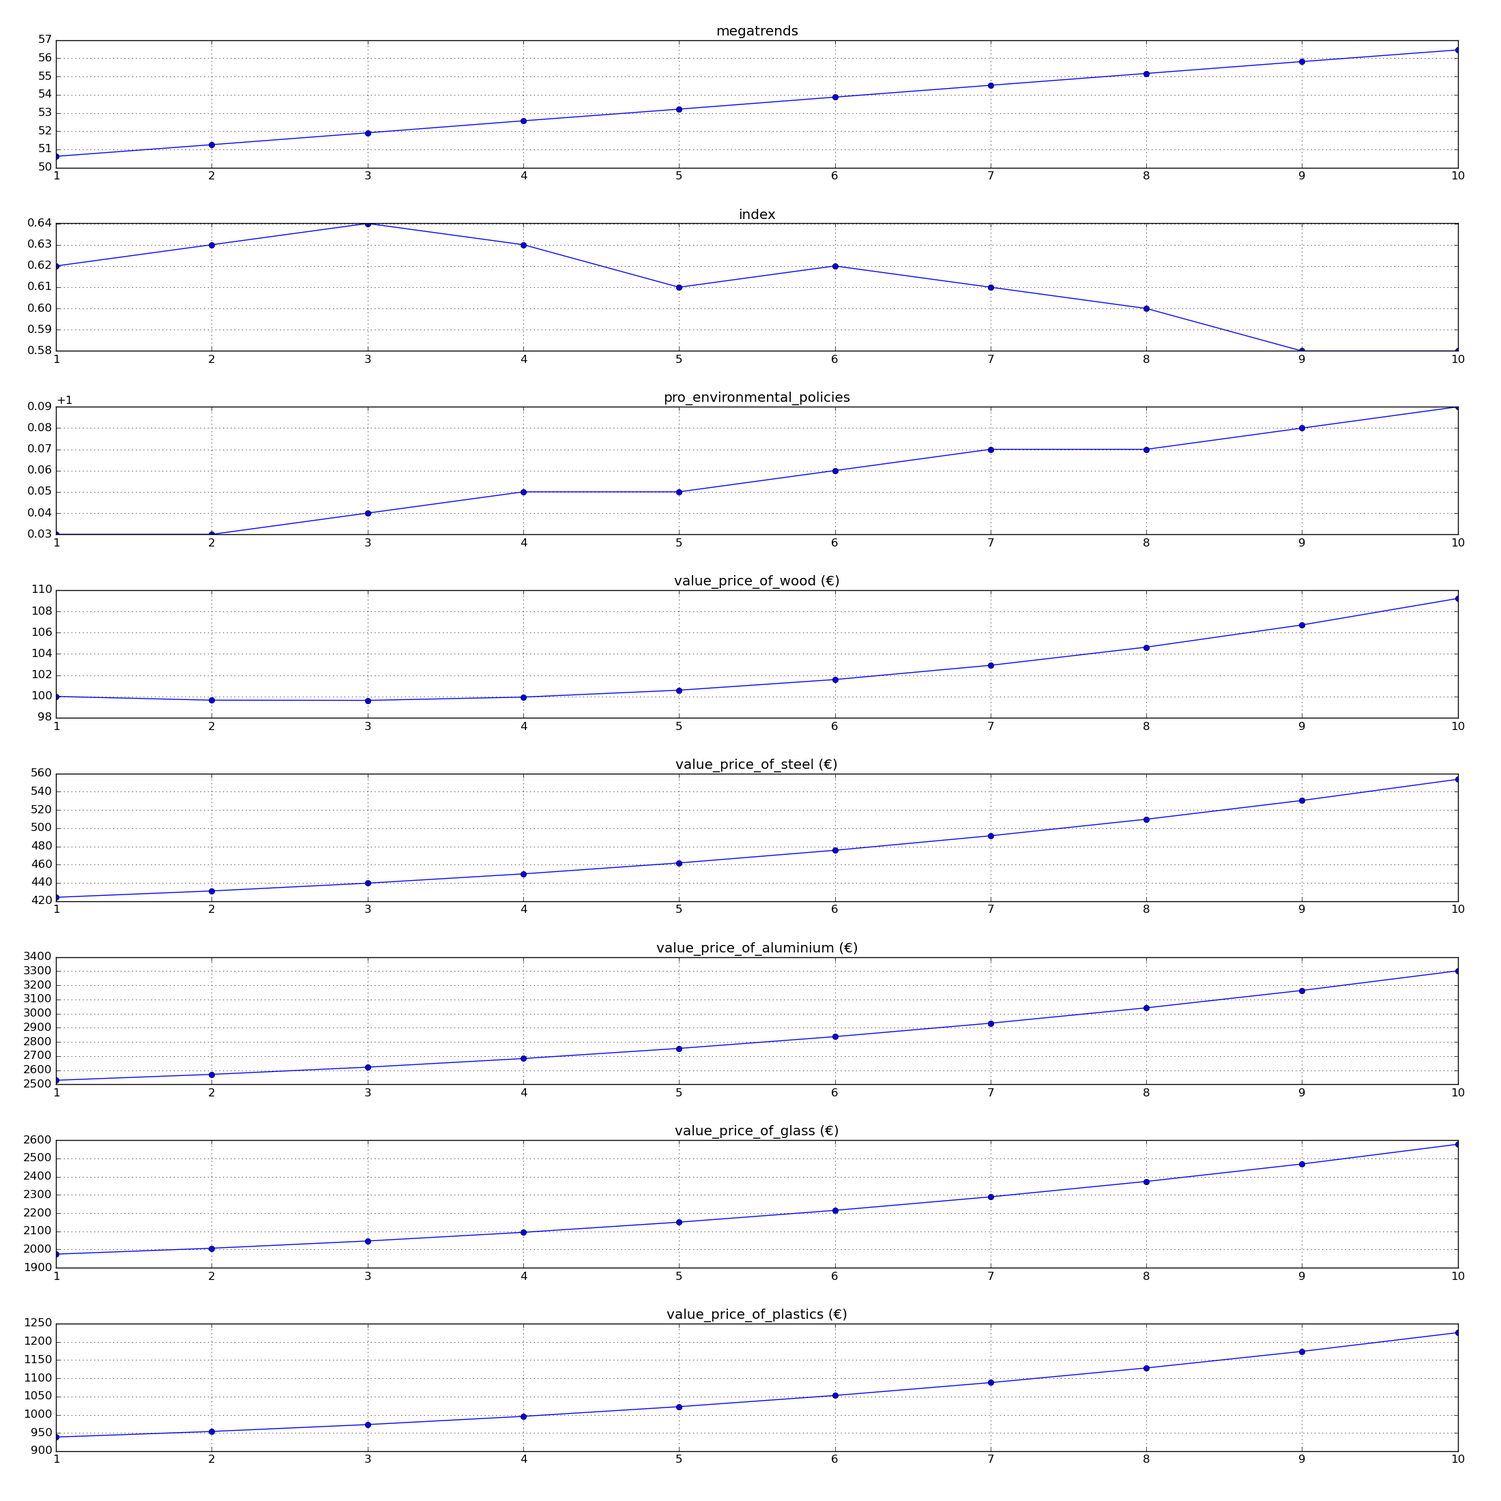
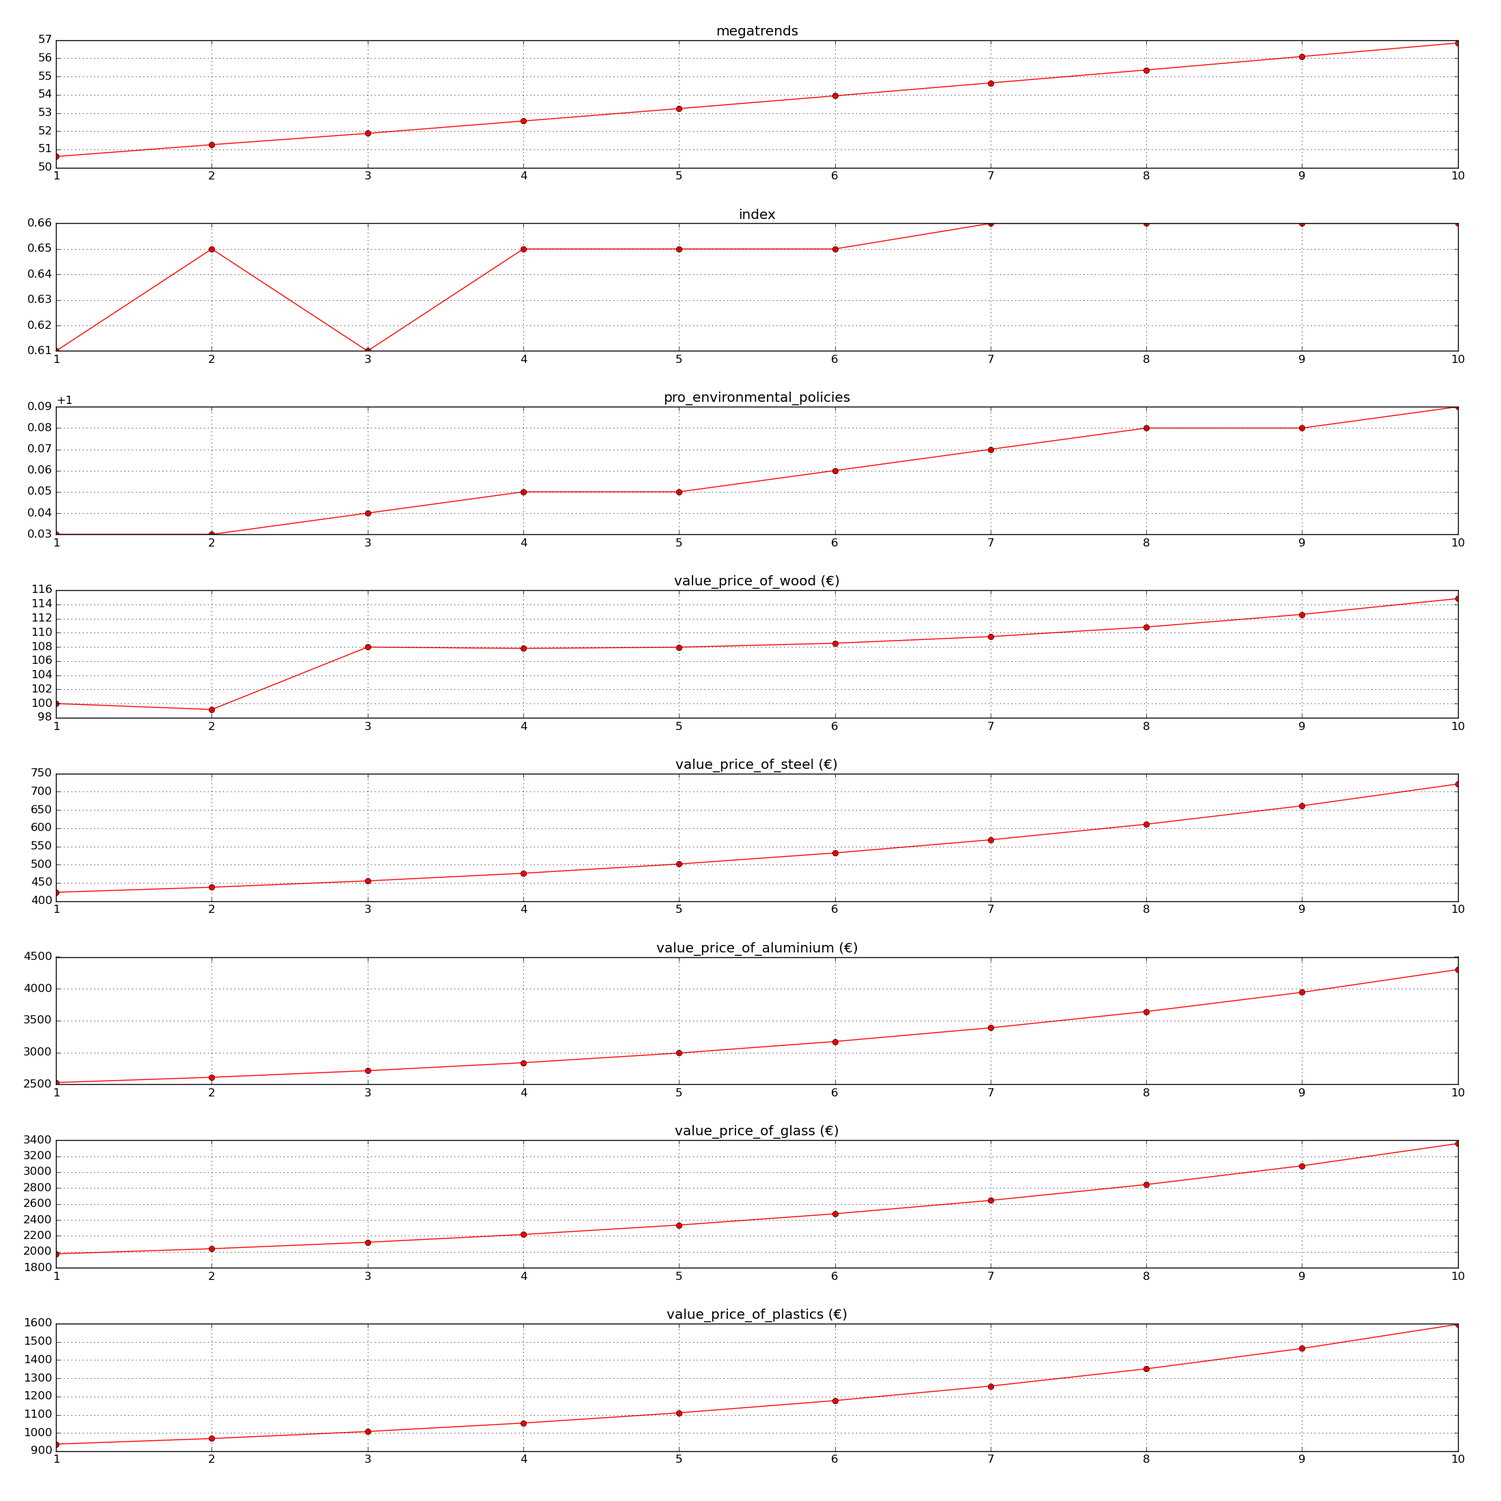
update after meeting on 18.01.2022

diff --git a/model.py b/model.py
@@ -7,14 +7,11 @@ plt.style.use("classic")
 
 # Global Initial Variables
 # growth_rate is for the wood market
-growth_rate = 1
+growth_rate = 1.03
 # growth_rate_2 is for the non wood market
-growth_rate_2 = 1
+growth_rate_2 = 1.02
 # inflation_rate
-initial_inflation_rate = 1
-# demand_growth_rate
-intial_demand_growth_rate = 1.03
-
+initial_inflation_rate = 1.02
 
 # Sets the initial amount the megatrend should have for the first iteration in the model
 # the higher the megatrend, the higher environmental policies, the cheaper the price of wood
@@ -22,17 +19,6 @@ initial_megatrend = 50
 
 # Values below are tons
 initial_amount_of_wood = 16790000
-industry_wood_demand = 132593
-
-# Current assumption is 80% aluminium and 20% steel
-ratio_metals = 33805
-# Values below are tons and flexible because the dependency to the ratio_metals variable
-industry_steel_demand = ratio_metals * 0.2
-industry_aluminium_demand = ratio_metals * 0.8
-
-# Values are calculated from data as: "gütereinsatzstatistik / preis"
-industry_glass_demand = 6890
-industry_plastics_demand = 45715
 
 # Initial Supplies
 # 7.4 million tons get manufactured each year in austria
@@ -68,6 +54,9 @@ policy_fluctuation = False
 # defaul = False
 extreme_inflation = False
 
+crisis = True
+
+
 # Initial seed for random values (NOT YET IMPLEMENTED - JUST A PLACEHOLDER)
 # seed = 10
 
@@ -102,7 +91,7 @@ def calculate_pro_environmental_policies(megatrends, year, election_results):
         # year == 2 --> 2024: Nationalratswahl
         # year == 7 --> 2029: Nationalratswahl
         if year == 2 or year == 7:
-            fluctuation = round(random.uniform(-0.05, 0.05),4)
+            fluctuation = round(random.uniform(-0.1, 0.1),4)
             election_results_list.append(fluctuation)
             policy_fluctuation_variable = 0 + fluctuation
         elif year > 2 and year <= 6:
@@ -120,11 +109,18 @@ def calculate_pro_environmental_policies(megatrends, year, election_results):
     return pro_environmental_policies, election_results_list
 
 
-def calculate_supply_of_wood(pro_environmental_policies, growth_rate, current_supply_of_wood):
+def calculate_supply_of_wood(year, pro_environmental_policies, growth_rate, current_supply_of_wood):
     # formula for: current_supply_of_wood
+    crisis_year = 2
+    min_value = 1.05
+    max_value = 1.1
 
-    current_supply_of_wood_return = growth_rate * current_supply_of_wood
-
+    if crisis and year == crisis_year:
+        decrease = random.uniform(min_value, max_value)
+        current_supply_of_wood_return = current_supply_of_wood / decrease
+        print(f"Wood supply decrease: {decrease}.")
+    else:
+        current_supply_of_wood_return = growth_rate * current_supply_of_wood
     return current_supply_of_wood_return
 
 
@@ -142,14 +138,17 @@ def calculate_supply_of_non_wood_m(pro_environmental_policies, current_supply_of
 def calculate_price_of_wood_m(inflation_rate, year, pro_environmental_policies, price_of_wood, current_supply_of_wood, initial_amount_of_wood, value_current_supply_of_wood):
     # formula for: price_of_wood
 
-    index = year - 1
-    impact = 1.02
+    iteration = year - 1
+    impact = 1.015
 
     if year == 0:
         price_of_wood = price_of_wood
     else:
-        price_of_wood = ((price_of_wood / (current_supply_of_wood / value_current_supply_of_wood[index])) * \
-                         (pro_environmental_policies/2 + 0.5) * inflation_rate) / impact
+        if pro_environmental_policies < 1:
+            pro_environmental_policies = 1
+        price_of_wood = ((price_of_wood / (current_supply_of_wood / value_current_supply_of_wood[iteration])) * (pro_environmental_policies/2 + 0.5) * inflation_rate) / impact
+
+
     return price_of_wood
 
 
@@ -157,26 +156,25 @@ def calculate_price_of_non_wood_m(inflation_rate, year, price_of_steel, price_of
 
     index = year - 1
 
+    old_price_of_steel = price_of_steel
+
     if year == 0:
         price_of_steel = price_of_steel
         price_of_aluminium = price_of_aluminium
         price_of_glass = price_of_glass
         price_of_plastics = price_of_plastics
     else:
-        price_of_steel = price_of_steel / (current_supply_of_steel / value_current_supply_of_steel[index]) * (
-                (pro_environmental_policies / 2 + 0.5)) * inflation_rate
-        price_of_aluminium = price_of_aluminium / (current_supply_of_aluminium / value_current_supply_of_aluminium[index]) * (
-                (pro_environmental_policies / 2 + 0.5)) * inflation_rate
-        price_of_glass = price_of_glass / (current_supply_of_glass / value_current_supply_of_glass[index]) * (
-                (pro_environmental_policies / 2 + 0.5)) * inflation_rate
-        price_of_plastics = price_of_plastics / (current_supply_of_plastics / value_current_supply_of_plastics[index]) * (
-                (pro_environmental_policies / 2 + 0.5)) * inflation_rate
+        price_of_steel = price_of_steel / (current_supply_of_steel / value_current_supply_of_steel[index]) * pro_environmental_policies * inflation_rate
+        price_of_aluminium = price_of_aluminium / (current_supply_of_aluminium / value_current_supply_of_aluminium[index]) * pro_environmental_policies * inflation_rate
+        price_of_glass = price_of_glass / (current_supply_of_glass / value_current_supply_of_glass[index]) * pro_environmental_policies * inflation_rate
+        price_of_plastics = price_of_plastics / (current_supply_of_plastics / value_current_supply_of_plastics[index]) * pro_environmental_policies * inflation_rate
 
-    ratio_steel = initial_price_steel/price_of_steel
-    if ratio_steel >= 1:
-        ratio_steel -= random.uniform(0, 0.05)
-    else:
-        ratio_steel += random.uniform(0, 0.05)
+    ratio_steel = price_of_steel/old_price_of_steel
+
+    # if ratio_steel >= 1:
+    #     ratio_steel -= random.uniform(0, 0.05)
+    # else:
+    #     ratio_steel += random.uniform(0, 0.05)
 
     return price_of_steel, price_of_aluminium, price_of_glass, price_of_plastics, ratio_steel
 
@@ -193,11 +191,11 @@ def calculate_demand_for_furniture(megatrends):
         material_trends_variable = 0
 
     if megatrends >= 50:
-        demand_for_furniture = (megatrends / 1000 + 1) + material_trends_variable
+        ratio_for_wood_furniture_demand_ = (megatrends / 500 + 1) + material_trends_variable
     else:
-        demand_for_furniture = (1 - (megatrends / 1000)) + material_trends_variable
+        ratio_for_wood_furniture_demand_ = (1 - (megatrends / 500)) + material_trends_variable
 
-    return demand_for_furniture
+    return ratio_for_wood_furniture_demand_
 
 
 def calculate_amount_of_wood_supply(pro_environmental_policies, current_stock_wood_supply, growth_rate):
@@ -209,56 +207,58 @@ def calculate_amount_of_wood_supply(pro_environmental_policies, current_stock_wo
     return current_stock_wood_supply
 
 
-def calculate_stock_amount_of_wood_material(year, industry_wood_demand, price_of_wood, value_price_of_wood, ratio_for_wood_furniture_demand,
-                                            ratio_steel):
+def calculate_used_wood_for_furniture(year, value_wood_demand_, price_of_wood, value_price_of_wood, ratio_for_wood_furniture_demand,
+                                      ratio_steel):
     # used_wood_for_furniture = (industry_wood_demand / (price_of_wood / initial_price_of_wood) * ratio_for_wood_furniture_demand) * ratio_steel
     # growth_rate_demand = 1.02
     # industry_wood_demand = industry_wood_demand * growth_rate_demand
     iteration = year - 1
 
     if year == 0:
-        initial_price_of_wood = price_of_wood
-        used_wood_for_furniture = (industry_wood_demand / (price_of_wood / initial_price_of_wood)) * \
-                        ratio_for_wood_furniture_demand * ratio_steel
+        used_wood_for_furniture = value_wood_demand_[year]
     else:
-        used_wood_for_furniture = (industry_wood_demand / (price_of_wood / value_price_of_wood[iteration])) * \
-                        ratio_for_wood_furniture_demand * ratio_steel
-
+        used_wood_for_furniture = (value_wood_demand_[year] / (price_of_wood / value_price_of_wood[iteration])) * ratio_for_wood_furniture_demand * ratio_steel
+        print(f"used_wood_for_furniture: {used_wood_for_furniture} = (value_wood_demand_[year]: {value_wood_demand_[year]} / (price_of_wood: {price_of_wood} / value_price_of_wood[iteration]: {value_price_of_wood[iteration]} * ratio_for_wood_furniture_demand: {ratio_for_wood_furniture_demand} * ratio_steel: {ratio_steel}")
     return used_wood_for_furniture
 
 
-def calculate_stock_amount_of_non_wood_material(year, value_price_of_steel, price_of_steel, industry_steel_demand,
-                                                value_price_of_aluminium, price_of_aluminium, industry_aluminium_demand,
-                                                value_price_of_glass, price_of_glass, industry_glass_demand,
-                                                value_price_of_plastics, price_of_plastics, industry_plastics_demand,
-                                                price_of_wood, ratio_for_wood_furniture_demand, value_price_of_wood):
+def calculate_used_non_wood_material(year, value_price_of_steel, price_of_steel, value_steel_demand_,
+                                     value_price_of_aluminium, price_of_aluminium, value_aluminium_demand_,
+                                     value_price_of_glass, price_of_glass, value_glass_demand_,
+                                     value_price_of_plastics, price_of_plastics, value_plastics_demand_,
+                                     price_of_wood, ratio_for_wood_furniture_demand, value_price_of_wood):
+
     # TODO: Check if a price of wood influence is needed here for the model
+
     iteration = year - 1
 
 
     if year == 0:
-        ratio_wood_price = price_of_wood/price_of_wood
-        initial_price_steel = price_of_steel
-        initial_price_aluminium = price_of_aluminium
-        initial_price_glass = price_of_glass
-        initial_price_plastics = price_of_plastics
-
-        used_steel_for_furniture = (industry_steel_demand / (price_of_steel / initial_price_steel) / ratio_for_wood_furniture_demand) * ratio_wood_price
-        used_aluminium_for_furniture = (industry_aluminium_demand / (price_of_aluminium / initial_price_aluminium) / ratio_for_wood_furniture_demand) * ratio_wood_price
-        used_glass_for_furniture = (industry_glass_demand / (price_of_glass / initial_price_glass) / ratio_for_wood_furniture_demand) * ratio_wood_price
-        used_plastics_for_furniture = (industry_plastics_demand / (price_of_plastics / initial_price_plastics) / ratio_for_wood_furniture_demand) * ratio_wood_price
+        used_steel_for_furniture = value_steel_demand_[year]
+        used_aluminium_for_furniture = value_aluminium_demand_[year]
+        used_glass_for_furniture = value_glass_demand_[year]
+        used_plastics_for_furniture = value_plastics_demand_[year]
     else:
-        ratio_wood_price = price_of_wood / value_price_of_wood[iteration]
-        used_steel_for_furniture = (industry_steel_demand / (
-                    price_of_steel / value_price_of_steel[iteration]) / ratio_for_wood_furniture_demand) * ratio_wood_price
-        used_aluminium_for_furniture = (industry_aluminium_demand / (
-                    price_of_aluminium / value_price_of_aluminium[iteration]) / ratio_for_wood_furniture_demand) * ratio_wood_price
-        used_glass_for_furniture = (industry_glass_demand / (
-                    price_of_glass / value_price_of_glass[iteration]) / ratio_for_wood_furniture_demand) * ratio_wood_price
-        used_plastics_for_furniture = (industry_plastics_demand / (
-                    price_of_plastics / value_price_of_plastics[iteration]) / ratio_for_wood_furniture_demand) * ratio_wood_price
+        # ratio_wood_price = price_of_wood / value_price_of_wood[iteration]
+        # used_steel_for_furniture = (value_steel_demand_[year] / (
+        #             price_of_steel / value_price_of_steel[iteration]) / ratio_for_wood_furniture_demand) * ratio_wood_price
+        # used_aluminium_for_furniture = (value_aluminium_demand_[year] / (
+        #             price_of_aluminium / value_price_of_aluminium[iteration]) / ratio_for_wood_furniture_demand) * ratio_wood_price
+        # used_glass_for_furniture = (value_glass_demand_[year] / (
+        #             price_of_glass / value_price_of_glass[iteration]) / ratio_for_wood_furniture_demand) * ratio_wood_price
+        # used_plastics_for_furniture = (value_plastics_demand_[year] / (
+        #             price_of_plastics / value_price_of_plastics[iteration]) / ratio_for_wood_furniture_demand) * ratio_wood_price
 
-    print(f"ratio_for_wood_furniture_demand: {ratio_for_wood_furniture_demand}")
+        ratio_wood_price = price_of_wood / value_price_of_wood[iteration]
+        used_steel_for_furniture = (value_steel_demand_[year] / (
+                    price_of_steel / value_price_of_steel[iteration])) * ratio_wood_price
+        used_aluminium_for_furniture = (value_aluminium_demand_[year] / (
+                    price_of_aluminium / value_price_of_aluminium[iteration])) * ratio_wood_price
+        used_glass_for_furniture = (value_glass_demand_[year] / (
+                    price_of_glass / value_price_of_glass[iteration])) * ratio_wood_price
+        used_plastics_for_furniture = (value_plastics_demand_[year] / (
+                    price_of_plastics / value_price_of_plastics[iteration])) * ratio_wood_price
+
     return used_steel_for_furniture, used_aluminium_for_furniture, used_glass_for_furniture, used_plastics_for_furniture
 
 
@@ -267,6 +267,11 @@ def calculate_index(used_wood_for_furniture, used_steel_for_furniture, used_alum
 
     sum_used_wood = used_wood_for_furniture
     sum_non_wood = used_steel_for_furniture + used_aluminium_for_furniture + used_glass_for_furniture + used_plastics_for_furniture
+
+    print("used_wood_for_furniture")
+    print(used_wood_for_furniture)
+    print("used_steel_for_furniture")
+    print(used_steel_for_furniture)
 
     return sum_used_wood / (sum_used_wood + sum_non_wood)
 
@@ -390,6 +395,38 @@ def calculate_extreme_inflation():
     return inflation_rate
 
 
+def calculate_demand(year_, value_wood_demand_, value_steel_demand_, value_aluminium_demand_, value_glass_demand_, value_plastics_demand_):
+    # Value below is tons
+    industry_wood_demand = 132593
+    # Current assumption is 80% aluminium and 20% steel
+    ratio_metals = 33805
+    # Values below are tons and flexible because the dependency to the ratio_metals variable
+    industry_steel_demand = ratio_metals * 0.2
+    industry_aluminium_demand = ratio_metals * 0.8
+    # Values are calculated from data as: "gütereinsatzstatistik / preis"
+    industry_glass_demand = 6890
+    industry_plastics_demand = 45715
+
+    demand_growth_rate = 1.02
+
+    iteration = year_ - 1
+
+    if year_ == 0:
+        value_wood_demand_.append(industry_wood_demand)
+        value_steel_demand_.append(industry_steel_demand)
+        value_aluminium_demand_.append(industry_aluminium_demand)
+        value_glass_demand_.append(industry_glass_demand)
+        value_plastics_demand_.append(industry_plastics_demand)
+    else:
+        value_wood_demand_.append(value_wood_demand_[iteration] * demand_growth_rate)
+        value_steel_demand_.append(value_steel_demand_[iteration] * demand_growth_rate)
+        value_aluminium_demand_.append(value_aluminium_demand_[iteration] * demand_growth_rate)
+        value_glass_demand_.append(value_glass_demand_[iteration] * demand_growth_rate)
+        value_plastics_demand_.append(value_plastics_demand_[iteration] * demand_growth_rate)
+
+    return value_wood_demand_, value_steel_demand_, value_aluminium_demand_, value_glass_demand_, value_plastics_demand_
+
+
 def run(counter):
     # setup initial variables
     # dv = decimal values
@@ -419,9 +456,13 @@ def run(counter):
     value_index = []
     value_gwp = []
     election_results = []
-
+    value_wood_demand = []
+    value_steel_demand = []
+    value_aluminium_demand = []
+    value_glass_demand = []
+    value_plastics_demand = []
     inflation_rate = initial_inflation_rate
-    demand_growth_rate = intial_demand_growth_rate
+
 
     for year in range(counter):
         print(f"Run: {year} "+ " / Year: " + str(2022 + year))
@@ -433,9 +474,11 @@ def run(counter):
 
         print(f"inflation_rate: {inflation_rate}")
 
+        value_wood_demand, value_steel_demand, value_aluminium_demand, value_glass_demand, value_plastics_demand = calculate_demand(year, value_wood_demand, value_steel_demand, value_aluminium_demand, value_glass_demand, value_plastics_demand)
+
         pro_environmental_policies, election_results = calculate_pro_environmental_policies(megatrends, year, election_results)
 
-        current_supply_of_wood = calculate_supply_of_wood(pro_environmental_policies, growth_rate, current_supply_of_wood)
+        current_supply_of_wood = calculate_supply_of_wood(year, pro_environmental_policies, growth_rate, current_supply_of_wood)
 
         price_of_wood = calculate_price_of_wood_m(inflation_rate, year, pro_environmental_policies, price_of_wood, current_supply_of_wood, initial_amount_of_wood, value_current_supply_of_wood)
 
@@ -445,14 +488,14 @@ def run(counter):
 
         ratio_for_wood_furniture_demand = calculate_demand_for_furniture(megatrends)
 
-        used_wood_for_furniture = calculate_stock_amount_of_wood_material(year, industry_wood_demand, price_of_wood, value_price_of_wood, ratio_for_wood_furniture_demand,
-                                            ratio_steel)
+        used_wood_for_furniture = calculate_used_wood_for_furniture(year, value_wood_demand, price_of_wood, value_price_of_wood, ratio_for_wood_furniture_demand,
+                                                                    ratio_steel)
 
-        used_steel_for_furniture, used_aluminium_for_furniture, used_glass_for_furniture, used_plastics_for_furniture = calculate_stock_amount_of_non_wood_material(year, value_price_of_steel, price_of_steel, industry_steel_demand,
-                                                value_price_of_aluminium, price_of_aluminium, industry_aluminium_demand,
-                                                value_price_of_glass, price_of_glass, industry_glass_demand,
-                                                value_price_of_plastics, price_of_plastics, industry_plastics_demand,
-                                                price_of_wood, ratio_for_wood_furniture_demand, value_price_of_wood)
+        used_steel_for_furniture, used_aluminium_for_furniture, used_glass_for_furniture, used_plastics_for_furniture = calculate_used_non_wood_material(year, value_price_of_steel, price_of_steel, value_steel_demand,
+                                                                                                                                                         value_price_of_aluminium, price_of_aluminium, value_aluminium_demand,
+                                                                                                                                                         value_price_of_glass, price_of_glass, value_glass_demand,
+                                                                                                                                                         value_price_of_plastics, price_of_plastics, value_plastics_demand,
+                                                                                                                                                         price_of_wood, ratio_for_wood_furniture_demand, value_price_of_wood)
 
         index = calculate_index(used_wood_for_furniture, used_steel_for_furniture, used_aluminium_for_furniture, used_glass_for_furniture, used_plastics_for_furniture)
 
@@ -505,6 +548,9 @@ def run(counter):
                 "value_gwp": value_gwp
                 }
 
+    print("value_wood_demand")
+    print(value_wood_demand)
+
     return data_dic
 
 
@@ -517,7 +563,7 @@ if __name__ == "__main__":
     print("\nSystem message: Creating plots ...\n")
 
 
-    create_price_subplots(data_dic, marker="o")
+    create_price_subplots(data_dic, marker="o", color="red")
     create_material_supply_subplot(data_dic, marker="o")
     create_used_materials_and_emissions_subplots(data_dic, marker="o")
     print(colored("\nSystem message: Plots created and saved!\n", "green"))
